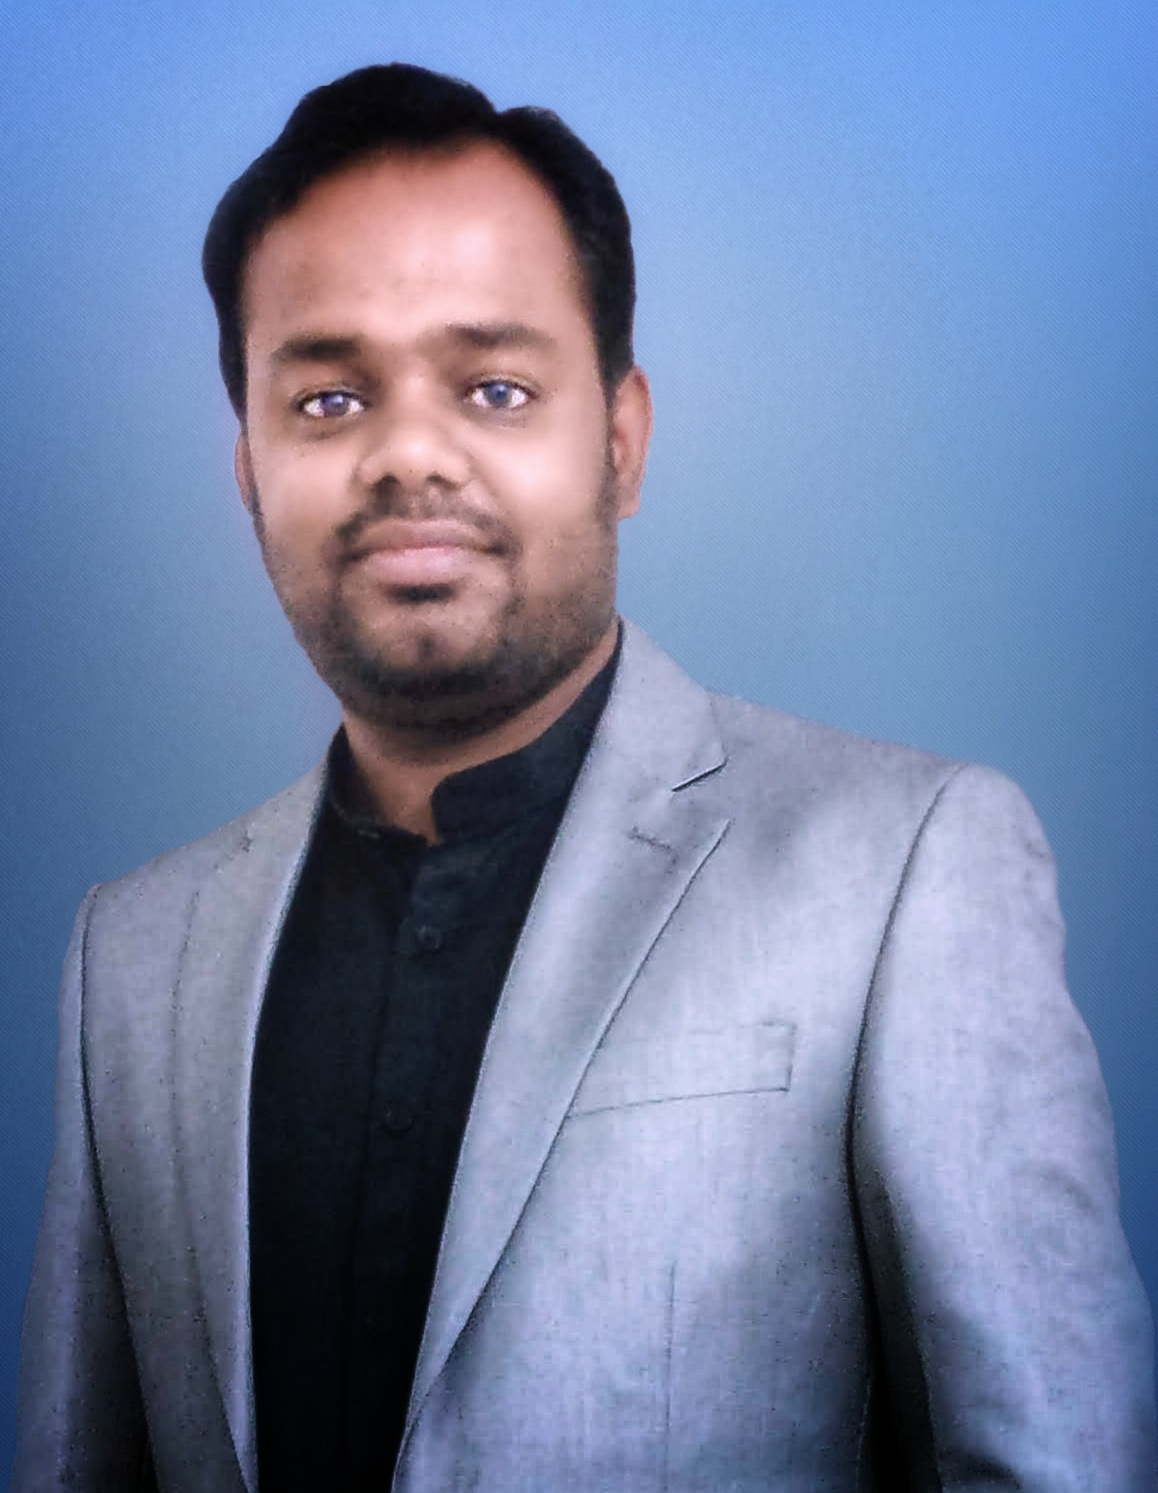
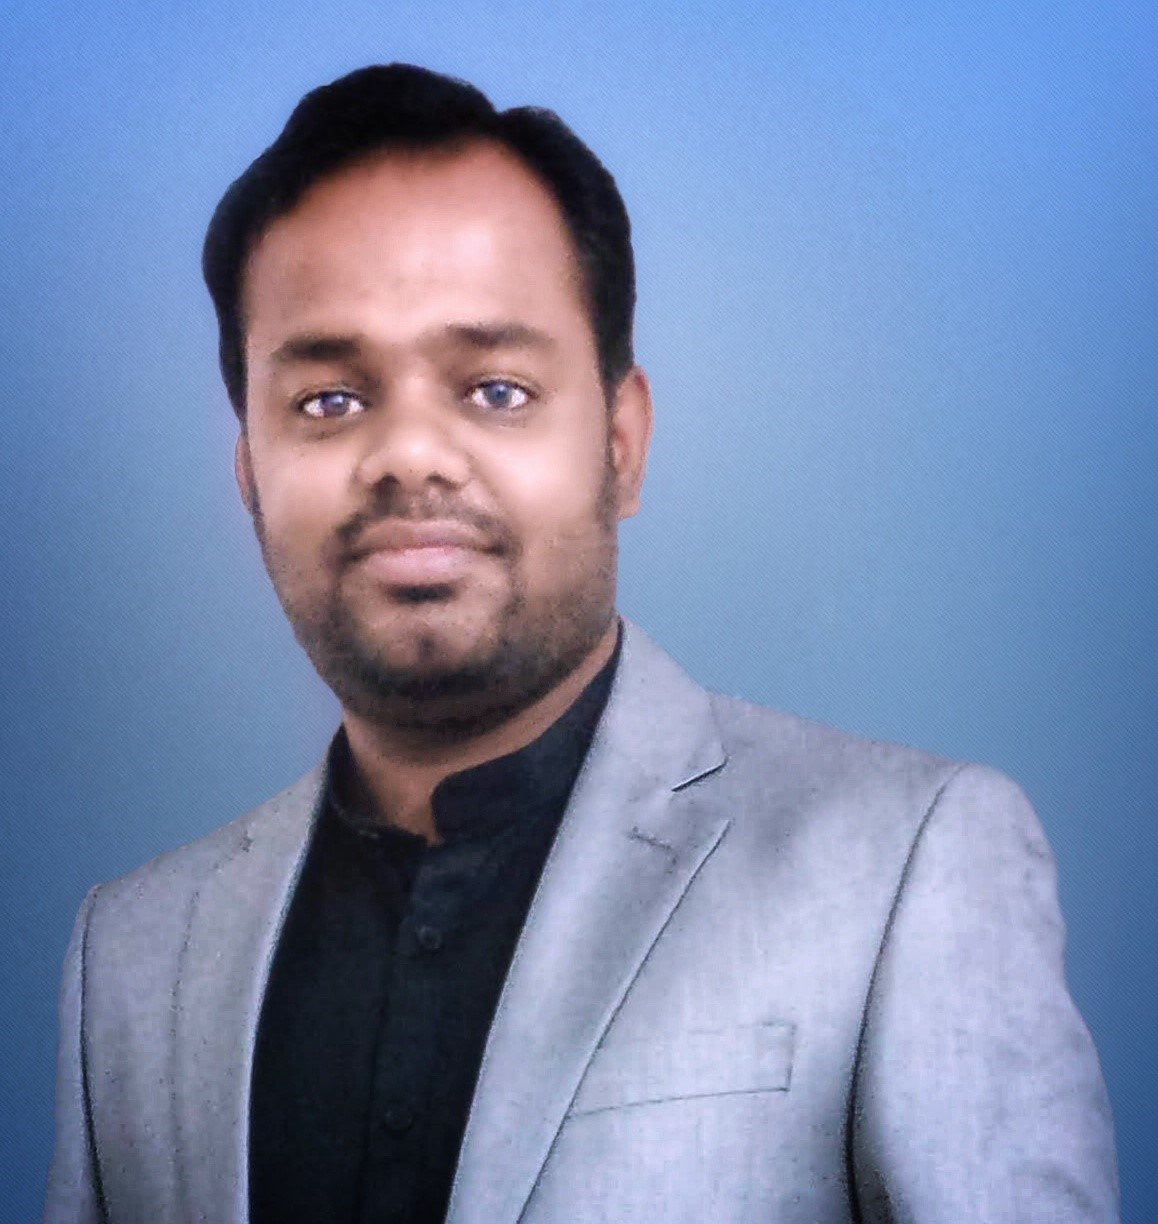
Fix the typos

diff --git a/index.html b/index.html
@@ -113,7 +113,9 @@
             margin: 0;
             height: 15px;
         }
-        a.fa, a.fa:hover{
+
+        a.fa,
+        a.fa:hover {
             border-bottom: none;
         }
     </style>
@@ -123,7 +125,7 @@
 
     <div id="page-wrap">
 
-        <img src="images/mj.jpeg" alt="Photo of Mrityunjay" id="pic" />
+        <img src="images/mj-removebg-preview.png" alt="Photo of Mrityunjay" id="pic" />
 
         <div id="contact-info" class="vcard">
 
@@ -152,8 +154,8 @@
             <dt>Skills</dt>
             <dd>
                 <h2>Object programming & frameworks</h2>
-                <p>Flask, CherryPy, Connexion, Robot Framework, Asyncio, Agile, OSM(Open Source Mano), Kafka,
-                    CodeIgnitor, Laravel, ...
+                <p>Kubernetes, DevOps, Docker, Flask, CherryPy, Connexion, Robot Framework, Asyncio, Agile, OSM(Open
+                    Source Mano), Kafka, CodeIgniter, Laravel
                 </p>
 
                 <h2>Programming Language</h2>
@@ -176,6 +178,42 @@
 
             <dd class="clear"></dd>
 
+            <dt>Experience</dt>
+            <dd>
+                <h2>Oracle India <span>Sr. Member of Technical Staff - Pune, Maharashtra, India - 2020</span></h2>
+                <ul>
+                    <li>Working OCI(Oracle Cloud Infrastructure) Cloud Network Team. </li>
+                    <li>Implement OPA(Open Policy Agent) for Network Flow Scenario.</li>
+                    <li>Optimizing DNS & OutBoundProxy services.</li>
+                </ul>
+
+                <h2>Tech Mahindra Pvt Ltd <span>Sr. Software Engineer - Pune, Maharashtra, India - 2017-2020</span></h2>
+                <ul>
+                    <li>Learnt & implemented Robot Framework to automate the testing of SDN/VNF</li>
+                    <li>Implemented & demonstrated a PoC to manage CPU/Memory throttling of VMs using Machine Learning.
+                    </li>
+                    <li>Demonstrated Day-2 configuration(VNF level configuration) of network function after onboarding
+                        in OSM(Open Source Mano) via juju charm in client's environment.</li>
+                </ul>
+
+                <h2>Nustech Pvt Ltd <span>IT Specialist - Pune, Maharashtra, India - 2013-2017</span></h2>
+                <ul>
+                    <li>Integrated PayPal/PayU Money into CodeIgniter using provided SDKs.</li>
+                    <li>Social application integration expert for several web application.</li>
+                    <li>Full-Stack web application development roll using PHPs.</li>
+                </ul>
+
+                <h2>Erudite Software & Learning Solution Pvt Ltd <span>Software Engineer - Noida, UP, India -
+                        2012-2013</span></h2>
+                <ul>
+                    <li>Full-Stack web application developer and enhanced there hiring process by developing online
+                        skill evaluation application.</li>
+                </ul>
+
+            </dd>
+
+            <dd class="clear"></dd>
+
             <dt>Education</dt>
             <dd>
                 <h2>Uttar Pradesh Technical University - B. Tech(2011)</h2>
@@ -185,53 +223,20 @@
 
             <dd class="clear"></dd>
 
-            <dt>Experience</dt>
-            <dd>
-                <h2>Oracle India <span>Sr. Member of Technical Staff - Pune, Maharashtra, India - 2020</span></h2>
-                <ul>
-                    <li>Part of OCI(Oracle Cloud Infrastructure) cloud network team. Core responsibilty is to implement
-                        and mentain cloud network services.</li>
-                    <li>Implement OPA(Open Policy Agent) for Network Flow Scenario.</li>
-                    <li>Provide support for DNS & OutBoundProxy services.</li>
-                </ul>
-
-                <h2>Tech Mahindra Pvt Ltd <span>Sr. Software Engineer - Pune, Maharashtra, India - 2017-2020</span></h2>
-                <ul>
-                    <li>Lerned & implemented Robot Framework to automate the testing of SDN</li>
-                    <li>Implemented & demonstrated a PoC to manage CPU/Memory throttling of VMs using Machine Learning.
-                    </li>
-                    <li>Demonstrated day-2 configuration of network function after onboarding in OSM(Open Source Mano)
-                        via juju charm in client's enivironment.</li>
-                </ul>
-
-                <h2>Nustech Pvt Ltd <span>IT Specialist - Pune, Maharashtra, India - 2013-2017</span></h2>
-                <ul>
-                    <li>Integrated PayPal into one of the CodeIgnitor based web application.</li>
-                    <li>Social application integration expert for several web application.</li>
-                    <li>Full-stack web application development roll using PHPs technologies.</li>
-                </ul>
-
-                <h2>Erudite Software & Learning Solution Pvt Ltd <span>Software Engineer - Noida, UP, India -
-                        2012-2013</span></h2>
-                <ul>
-                    <li>Full-stack web application developer and was Whole-souled responsible for developing an web
-                        application to evaluate the candidate.</li>
-                </ul>
-
-            </dd>
-
-            <dd class="clear"></dd>
-
             <dt>Hobbies</dt>
-            <!-- <dd><ul><li>Cooking</li><li>Cinema</li><li>Hiking</li></ul></dd> -->
-            <dd><p>Cooking</p><p>Cinema</p><p>Hiking</p></dd>
+            <dd>
+                <p>Cooking</p>
+                <p>Cinema</p>
+                <p>Hiking</p>
+            </dd>
 
             <dd class="clear"></dd>
 
             <dt>References</dt>
             <dd>
                 <p><a class="fa fa-github" style="font-size:24px" href="https://github.com/yadavmrityunjay"></a></p>
-                <p><a class="fa fa-linkedin" style="font-size:24px" href="https://www.linkedin.com/in/mrityunjayyadav/"></a></p>
+                <p><a class="fa fa-linkedin" style="font-size:24px"
+                        href="https://www.linkedin.com/in/mrityunjayyadav/"></a></p>
             </dd>
 
             <dd class="clear"></dd>
